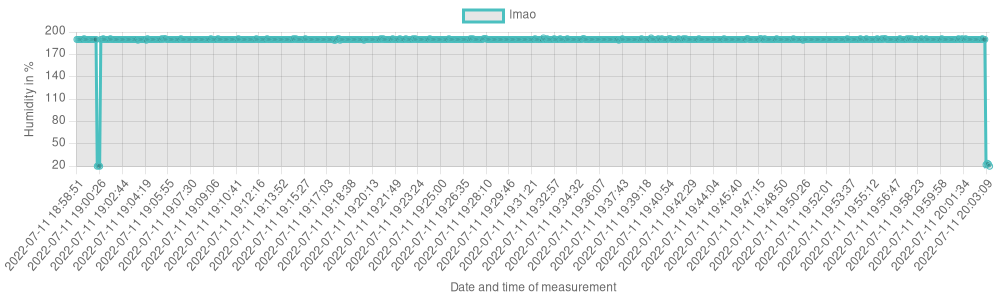
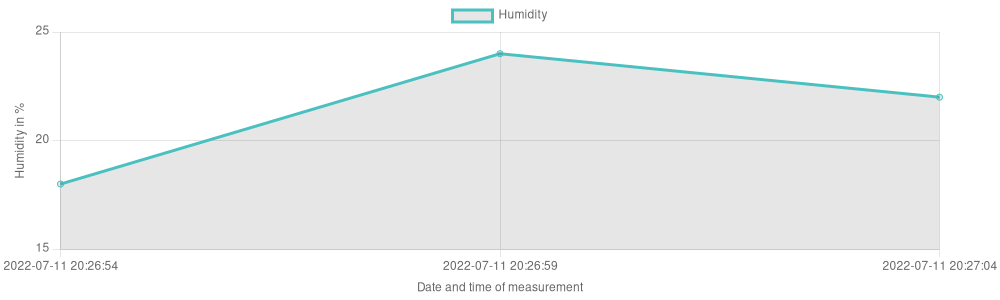
JavaScript Refactoring

diff --git a/front/server.js b/front/server.js
@@ -1,32 +1,23 @@
 "use strict"
 
 // Webserver
-var express = require('express');
-var app = require("express")();
-var http = require('http').Server(app);
-var morgan = require('morgan');
-var engines = require('consolidate');
-var body_parser = require('body-parser');
-var db = require('./db');
-var cbor = require('cbor');
-var ip = require('ip');
-const { ChartJSNodeCanvas } = require('chartjs-node-canvas');
+const app = require("express")();
+const body_parser = require('body-parser');
+const cbor = require('cbor');
+const coap = require('coap');
+const db = require('./db');
+const engines = require('consolidate');
+const express = require('express');
 const fs = require('fs');
+const ip = require('ip');
+const morgan = require('morgan');
+const url = require('url');
 
-const width = 1000;
-const height = 300;
-const chart_callback = (_) => {
-    console.log('chart built');
-};
-const canvas_render_service = new ChartJSNodeCanvas({ width, height, chart_callback });
-
-// Websocket
-var io = require('socket.io')(http);
-
-// CoAP
-var coap = require('coap');
-var url = require('url');
-var url;
+// We draw the charts on the server and pass them to the frontend
+const { ChartJSNodeCanvas } = require('chartjs-node-canvas');
+const CHART_WIDTH = 1000;
+const CHART_HEIGHT = 300;
+const canvas_render_service = new ChartJSNodeCanvas({ width: CHART_WIDTH, height: CHART_HEIGHT });
 
 /* ---------------- Express Setup ---------------- */
 app.use(morgan('dev'));
@@ -46,11 +37,11 @@ app.get('/plant_view', function (req, res) {
     res.render('./plant_view.html', { node_ip: node_ip });
 });
 
-app.get('/', function (req, res) {
+app.get('/', function (_, res) {
     res.render('./index.html');
 });
 
-app.get('/plant_refresh', async function (req, res) {
+app.get('/plant_refresh', async function (_, res) {
     let plantRefresh = await db.select_plant_infos();
     res.json(plantRefresh);
 });
@@ -108,10 +99,7 @@ app.get('/plant_chart', async function (req, res) {
         chart_time.push(row.date_time);
         console.log(row.node_ip + "\t" + row.pump_activated + "\t" + row.dry_value + "\t" + row.wet_value + "\t" + row.date_time + "\t" + row.humidity);
     });
-
-    console.log('making image')
     fs.writeFileSync('./public/img/mychart.png', await create_image(chart_data, chart_time));
-    res.send('done');
 });
 
 const create_image = async (chart_data, chart_time) => {
@@ -120,7 +108,7 @@ const create_image = async (chart_data, chart_time) => {
         data: {
             labels: chart_time,
             datasets: [{
-                label: 'lmao',
+                label: 'Humidity',
                 data: chart_data,
                 fill: true,
                 borderColor: 'rgb(75, 192, 192)',
@@ -165,10 +153,7 @@ const create_image = async (chart_data, chart_time) => {
 
 /* --------------------- COAP -------------------- */
 var server = coap.createServer({ type: 'udp6' });
-
-(async () => {
-    await db.init();
-})();
+db.init();
 
 server.on('request', (req, _) => {
     if (req.url != '/data') {
@@ -180,6 +165,7 @@ server.on('request', (req, _) => {
     let pump_activated = decoded_data[1];
     let dry_value = decoded_data[2];
     let wet_value = decoded_data[3];
+    /*
     let rx_bytes = decoded_data[4];
     let rx_count = decoded_data[5];
     let tx_bytes = decoded_data[6];
@@ -187,27 +173,30 @@ server.on('request', (req, _) => {
     let tx_mcast_count = decoded_data[8];
     let tx_success = decoded_data[9];
     let tx_failed = decoded_data[10];
+    */
     let ip_addr = new Uint8Array(decoded_data.slice(11, 27));
     let ip_addr_str = ip.toString(Buffer.from(ip_addr), 0, 16);
 
     console.log(`Received CoAP-CBOR /data POST from ${ip_addr_str}`);
 
-    //console.log(
-    //    `ip_addr: ${ip_addr}\n`,
-    //    `\bip_addr_str: ${ip_addr_str}\n`,
-    //    `\bhumidity: ${humidity}\n`,
-    //    `\bpump_activated: ${pump_activated}\n`,
-    //    `\bdry_value: ${dry_value}\n`,
-    //    `\bwet_value: ${wet_value}\n`,
-    //    `\brx_bytes: ${rx_bytes}\n`,
-    //    `\brx_count: ${rx_count}\n`,
-    //    `\btx_bytes: ${tx_bytes}\n`,
-    //    `\btx_unicast_count: ${tx_unicast_count}\n`,
-    //    `\btx_mcast_count: ${tx_mcast_count}\n`,
-    //    `\btx_success: ${tx_success}\n`,
-    //    `\btx_failed: ${tx_failed}`);
+    /*
+    console.log(
+        `ip_addr: ${ip_addr}\n`,
+        `\bip_addr_str: ${ip_addr_str}\n`,
+        `\bhumidity: ${humidity}\n`,
+        `\bpump_activated: ${pump_activated}\n`,
+        `\bdry_value: ${dry_value}\n`,
+        `\bwet_value: ${wet_value}\n`,
+        `\brx_bytes: ${rx_bytes}\n`,
+        `\brx_count: ${rx_count}\n`,
+        `\btx_bytes: ${tx_bytes}\n`,
+        `\btx_unicast_count: ${tx_unicast_count}\n`,
+        `\btx_mcast_count: ${tx_mcast_count}\n`,
+        `\btx_success: ${tx_success}\n`,
+        `\btx_failed: ${tx_failed}`);
+    */
     
-    db.change_plant_node(ip_addr_str, pump_activated, dry_value, wet_value);
+    db.change_plant_node(ip_addr_str, pump_activated, dry_value, wet_value, 20, 60, 5);
     db.insert_plant_humidity(ip_addr_str, humidity);
     //db.select_all();
 });
@@ -224,6 +213,7 @@ server.listen(5683, () => {
 });
 
 /* --------------------- TEST -------------------- */
+/*
 async function test_all(){
     //Testdata because no boards ...
     var ip_addr = [254,128,0,0,0,0,0,0,2,4,37,25,24,1,11,0];
@@ -256,4 +246,5 @@ db.select_all();
 db.change_plant_node("::", 0, 0, 0);
 db.insert_plant_humidity("::", 50);
 
-//testAll();
+testAll();
+*/

diff --git a/front/db.js b/front/db.js
@@ -43,13 +43,19 @@ module.exports = {
     /* TABLE CREATION */
     create_tables: function(db) {
         // NOTE: We must assert that the `node_ip` column is unique.
+        // The watering thresholds allow us to implement the following functionality: If the humidity is below 
+        // `watering_threshold_bottom`, the plant will be watered for five seconds, then we will wait for the
+        // `watering_threshold_timeout` to run out and check again until `watering_threshold_target` is reached.
         _create_table('plant_nodes', `
             CREATE TABLE IF NOT EXISTS plant_nodes (
                 id INTEGER PRIMARY KEY NOT NULL,
                 node_ip TEXT UNIQUE NOT NULL,
                 pump_activated INTEGER,
                 dry_value INTEGER,
-                wet_value INTEGER
+                wet_value INTEGER,
+                watering_threshold_bottom INTEGER,
+                watering_threshold_target INTEGER,
+                watering_threshold_timeout INTEGER
             );
         `);
         _create_table('plant_humidities', `
@@ -61,9 +67,19 @@ module.exports = {
                 FOREIGN KEY (node) REFERENCES plant_nodes(id)
             );
         `);
+        // The watering times are in seconds.
+        _create_table('plant_watering_schedules', `
+            CREATE TABLE IF NOT EXISTS plant_watering_schedules (
+                id INTEGER PRIMARY KEY AUTOINCREMENT NOT NULL,
+                node INTEGER NOT NULL,
+                watering_begin INTEGER,
+                watering_end INTEGER,
+                FOREIGN KEY (node) REFERENCES plant_nodes(id)
+            );
+        `);
     },
     /* INSERTION */
-    change_plant_node: async function(node_ip, pump_activated, dry_value, wet_value) {
+    change_plant_node: async function(node_ip, pump_activated, dry_value, wet_value, watering_threshold_bottom, watering_threshold_target, watering_threshold_timeout) {
         return await new Promise(function (resolve) {
             db.run(`
                 INSERT INTO plant_nodes (node_ip, pump_activated, dry_value, wet_value)
@@ -71,9 +87,12 @@ module.exports = {
                 ON CONFLICT(node_ip) DO UPDATE SET
                     pump_activated = ?,
                     dry_value = ?,
-                    wet_value = ?
+                    wet_value = ?,
+                    watering_threshold_bottom = ?,
+                    watering_threshold_target = ?,
+                    watering_threshold_timeout = ?
                 WHERE node_ip = ?;
-            `, node_ip, pump_activated, dry_value, wet_value, pump_activated, dry_value, wet_value, node_ip, (err) => {
+            `, node_ip, pump_activated, dry_value, wet_value, pump_activated, dry_value, wet_value, watering_threshold_bottom, watering_threshold_target, watering_threshold_timeout, node_ip, (err) => {
                 if (err) {
                     console.log(`Insert query error: ${err}`);
                     resolve(0);
@@ -98,6 +117,22 @@ module.exports = {
             });
         });
     },
+    insert_plant_watering_schedule: async function (node_ip, watering_begin, watering_end) {
+        return await new Promise(function (resolve) {
+            db.run(`
+                INSERT INTO plant_watering_schedules (node, watering_begin, watering_end)
+                    VALUES ((SELECT id FROM plant_nodes WHERE node_ip = ?), ?, ?);
+            `, node_ip, watering_begin, watering_end, node_ip, (err) => {
+                if (err) {
+                    console.log(`Insert query error: ${err}`);
+                    resolve(0);
+                } else {
+                    resolve(1);
+                }
+            });
+        });
+    },
+    /* SELECTION */
     select_all: async function () {
         var data = 0;
         let myPromise = new Promise(function (resolve) {
@@ -178,5 +213,21 @@ module.exports = {
             });
         })
         return return_data;
-    }
+    },
+    /* REMOVING */
+    delete_plant_watering_schedule: async function (node_ip, watering_begin, watering_end) {
+        return await new Promise(function (resolve) {
+            db.run(`
+                DELETE FROM plant_watering_schedules
+                WHERE node = (SELECT id FROM plant_nodes WHERE node_ip = ?) AND watering_begin = ? AND watering_end = ?;
+            `, node_ip, watering_begin, watering_end, (err) => {
+                if (err) {
+                    console.log(`Insert query error: ${err}`);
+                    resolve(0);
+                } else {
+                    resolve(1);
+                }
+            });
+        });
+    },
 };

diff --git a/front/public/js/app.js b/front/public/js/app.js
@@ -101,7 +101,7 @@ async function refresh_plants() {
         div2.appendChild(h1);
         element.appendChild(div2);
     }
-    var t = setTimeout(refresh_plants, 5000);
+    var t = setTimeout(refresh_plants, 2500);
 };
 
 /* ------------------ plant_view ------------------ */
